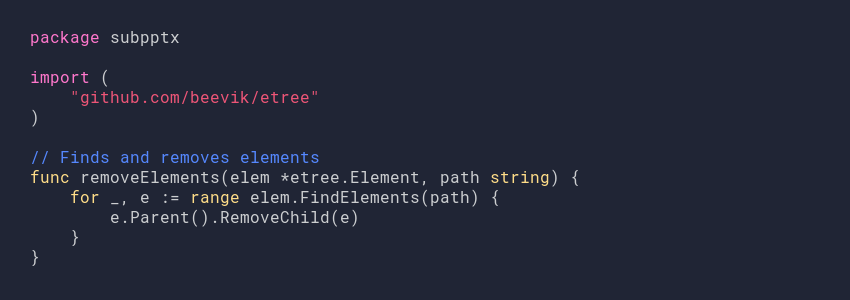
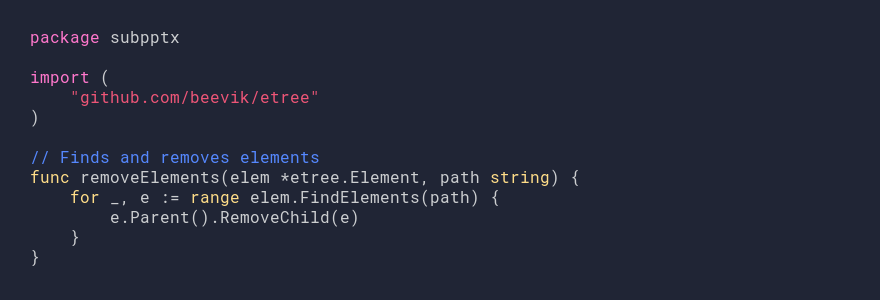
Fit width: 850 -> 880

diff --git a/factory/codesnippets.py b/factory/codesnippets.py
@@ -22,7 +22,7 @@ TEMPLATE = '''
   <style>
     @import url(https://fonts.googleapis.com/css?family=Roboto+Mono);
     @page {
-      size: 850px %(height)dpx;
+      size: %(width)dpx %(height)dpx;
       margin: 0;
       padding: 0;
     }
@@ -63,6 +63,7 @@ for filename in os.listdir(CODESNIPPETS):
     html = weasyprint.HTML(string=TEMPLATE % {
         'css': formatter.get_style_defs('body'),
         'html': highlighted,
+        'width': 880,  # adjusted for Github layout.
         'height': (lines+3) * 20,
     })
 
